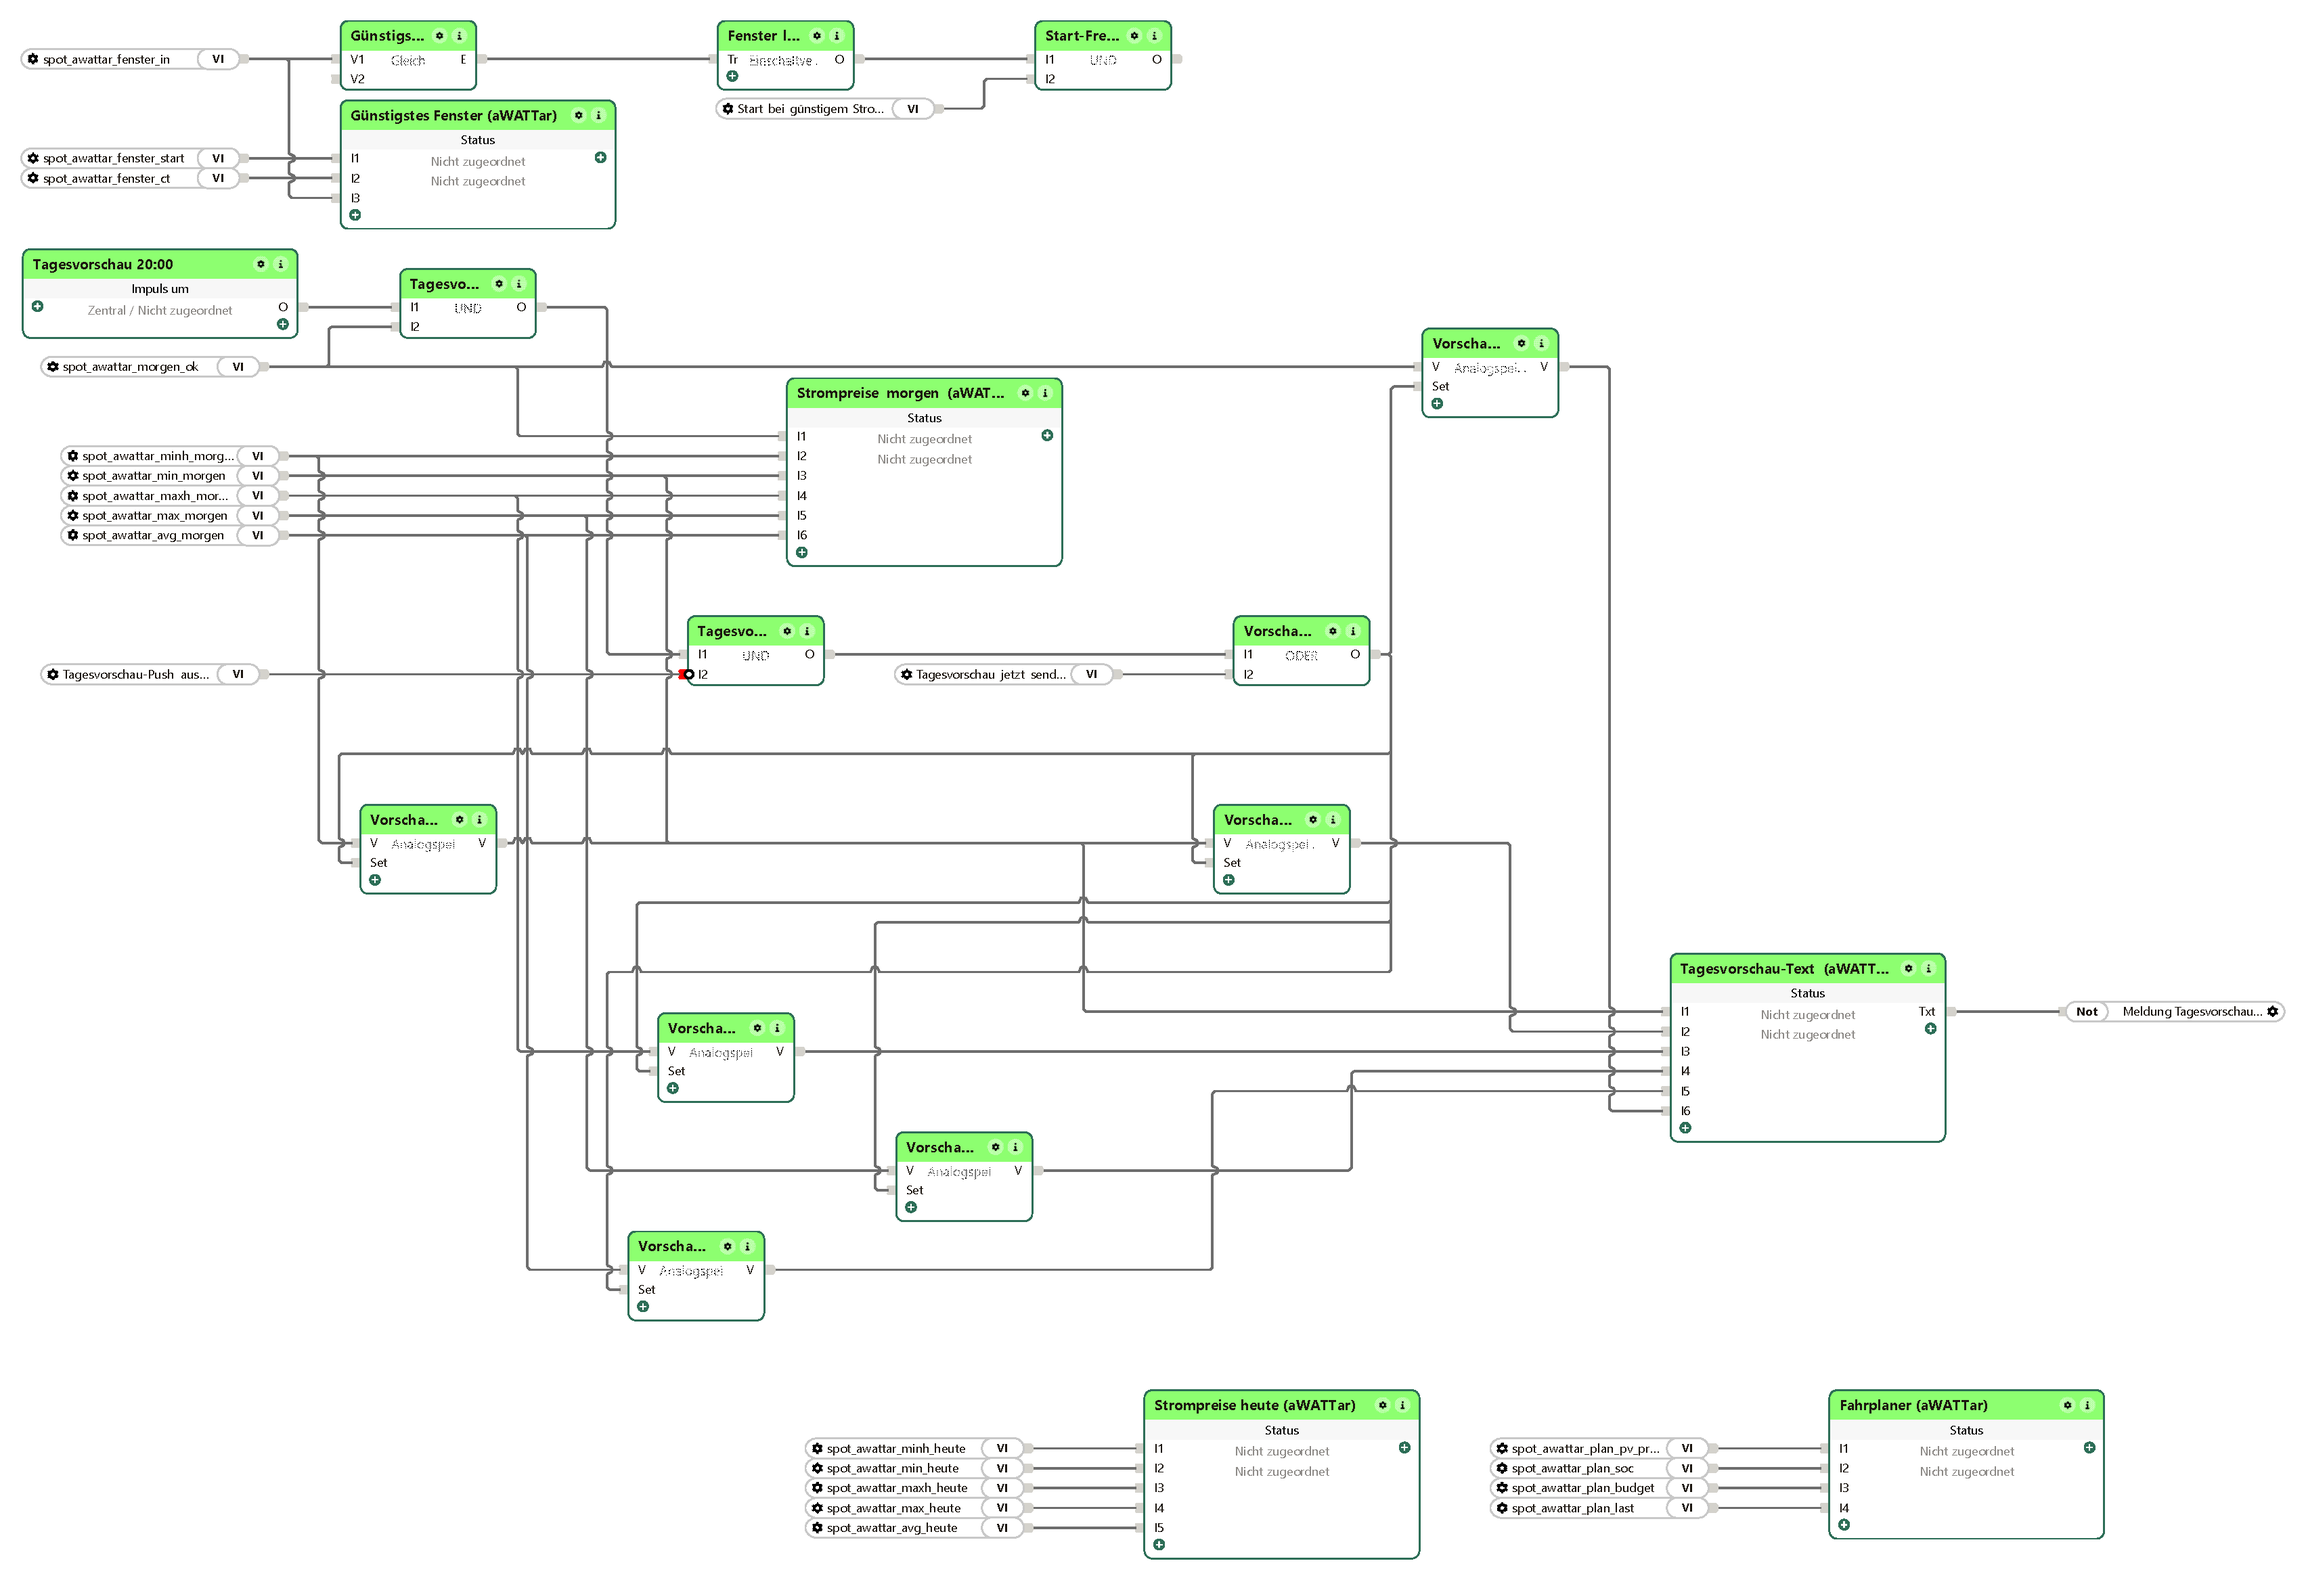
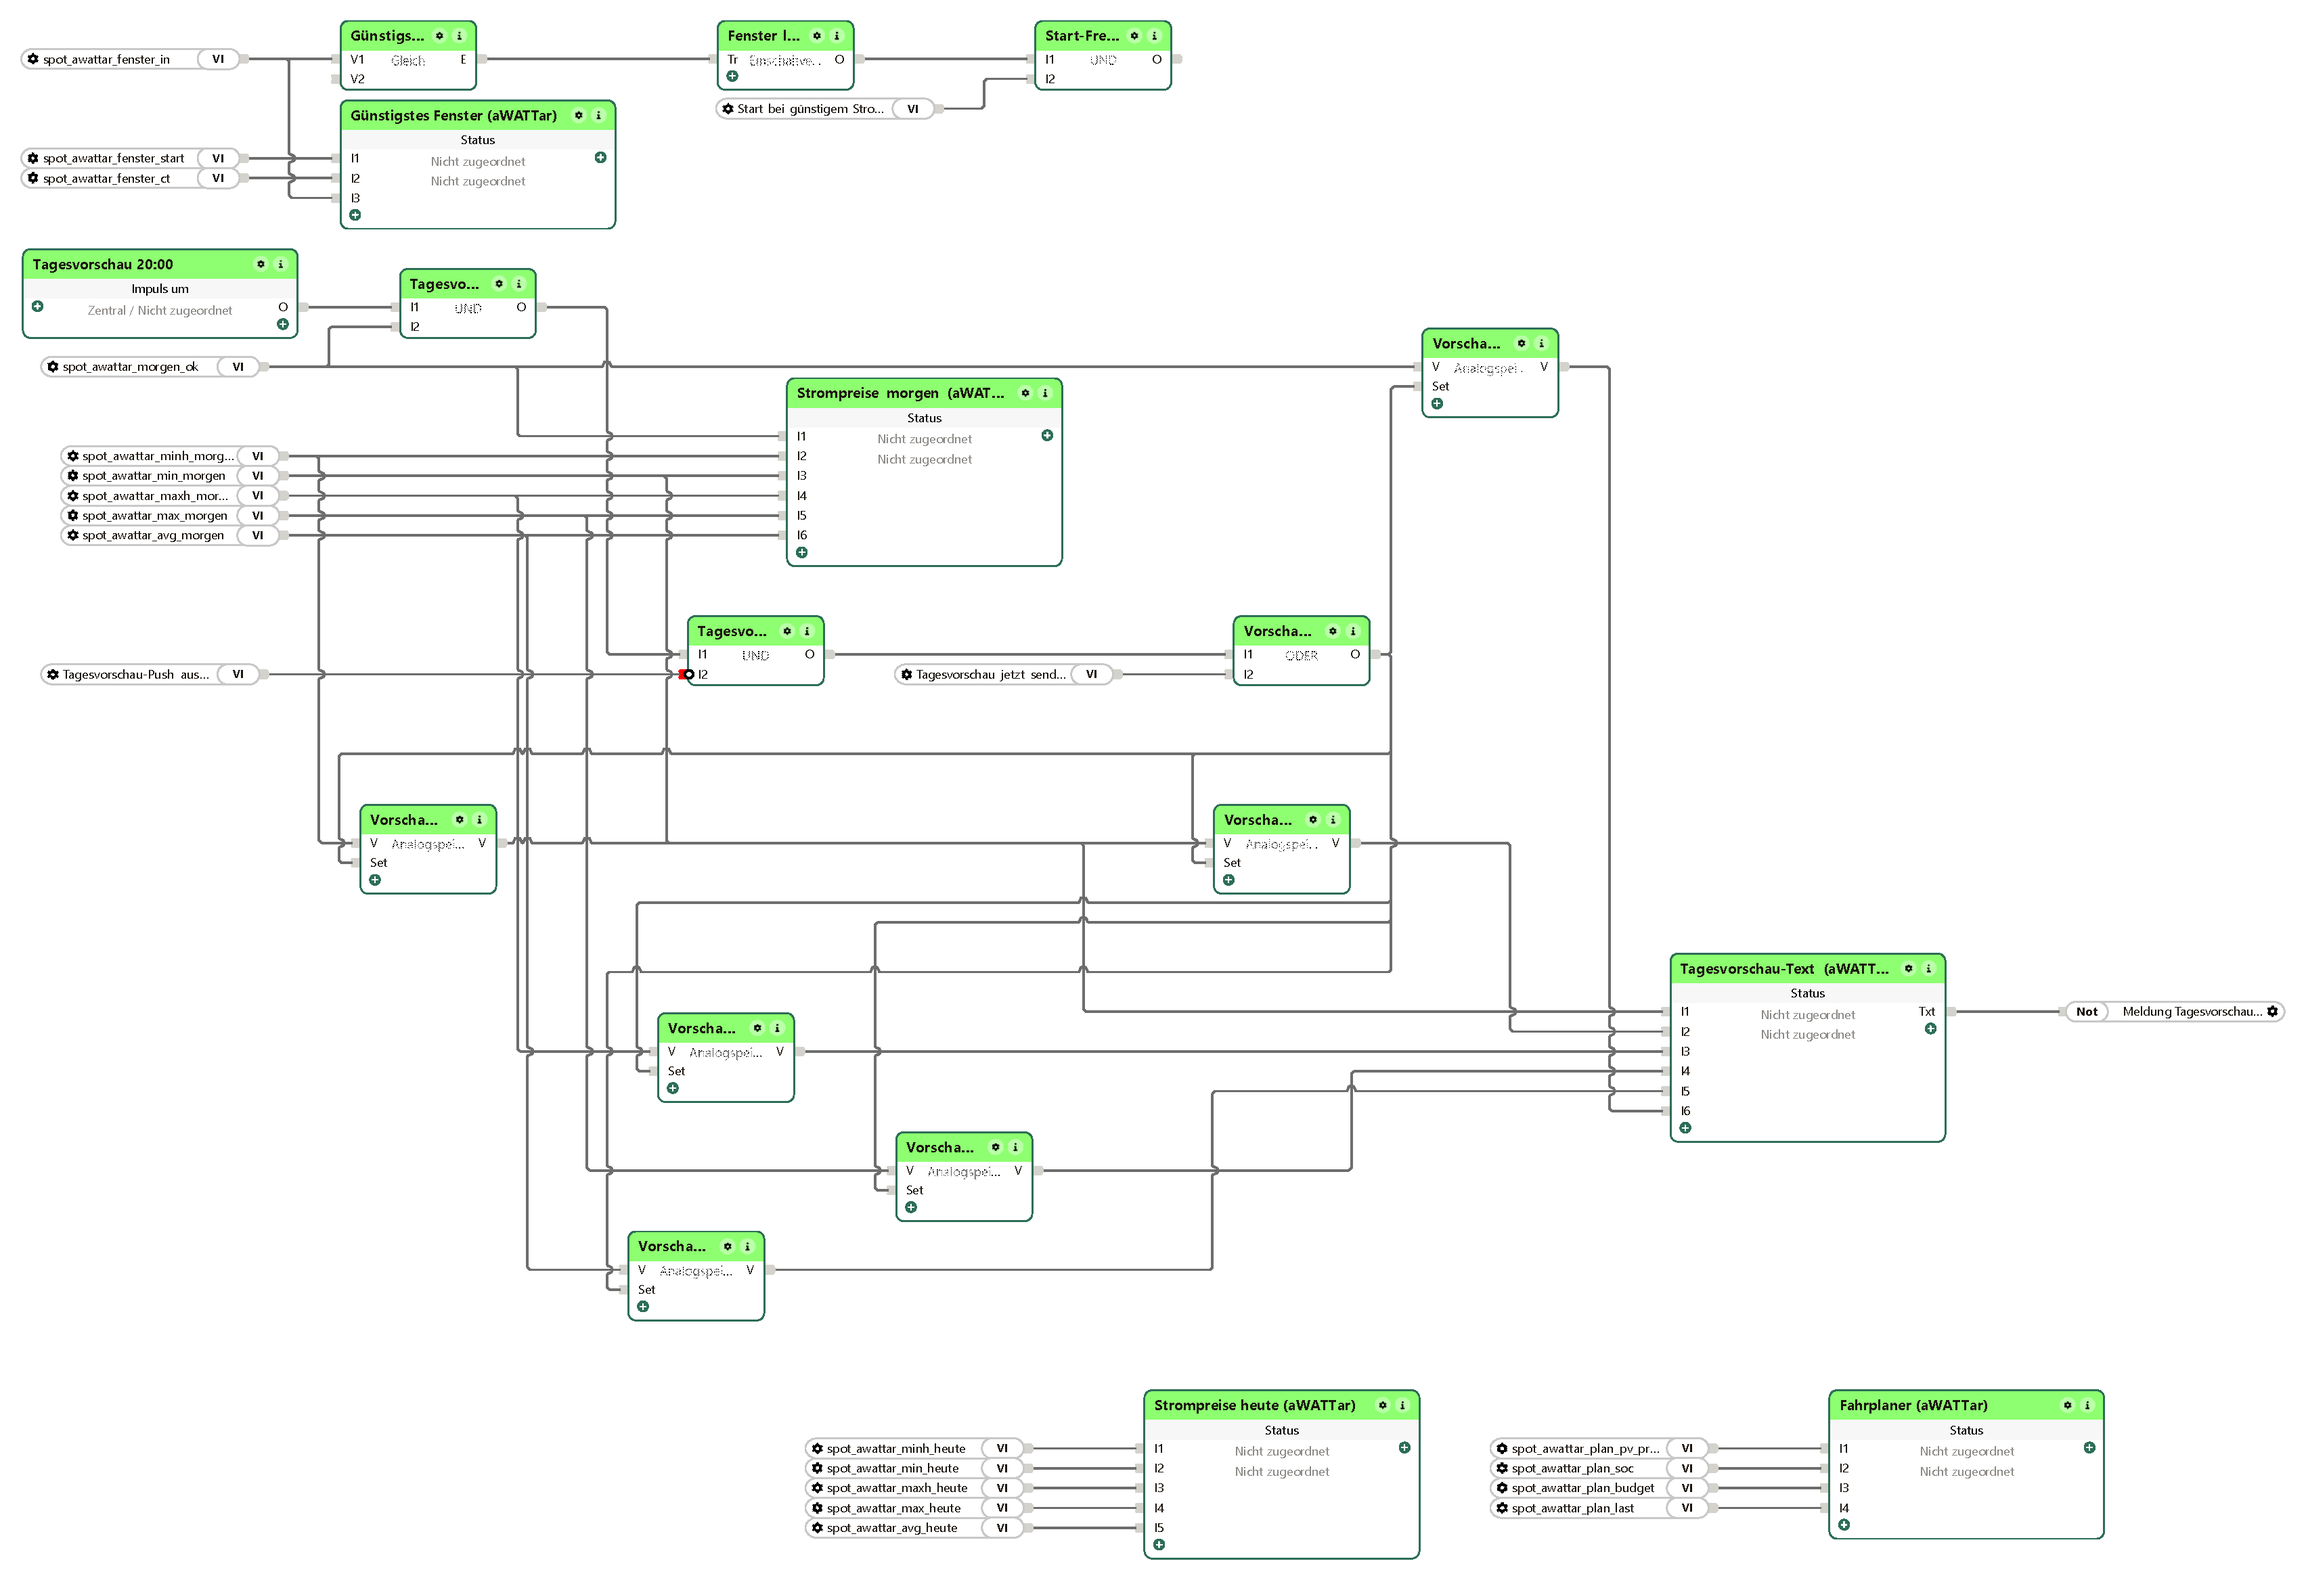
Spotpreis-aWATTar 1.2.41: Bilder der Einbindung erneuert (Musterprojekt 614cd0f)
Bilder der Einbindung erneuert: Das Bild der Seite „Spotpreis aWATTar Werte“ zeigt die neu angeordnete Seite. Sonst keine Änderung gegen 1.2.40.

diff --git a/README.md b/README.md
@@ -8,6 +8,10 @@ per MQTT und als JSON — mit stündlicher Sprachansage und Push-Auslöser.
 Kein Konto, kein API-Key, keine Cloud-Bindung. Kompatibel mit LoxBerry 3.x und
 **LoxBerry 4** (reines PHP, läuft mit PHP 7.4 und 8.x).
 
+## Neu in 1.2.41
+
+Bilder der Einbindung erneuert: Das Bild der Seite „Spotpreis aWATTar Werte“ zeigt die neu angeordnete Seite. Sonst keine Änderung gegen 1.2.40.
+
 ## Neu in 1.2.40
 
 Pflegefassung der Nachtwelle (29.10.2026), ohne Änderung an Preisen; die Ansagen können jetzt an mehrere Lautsprecher
